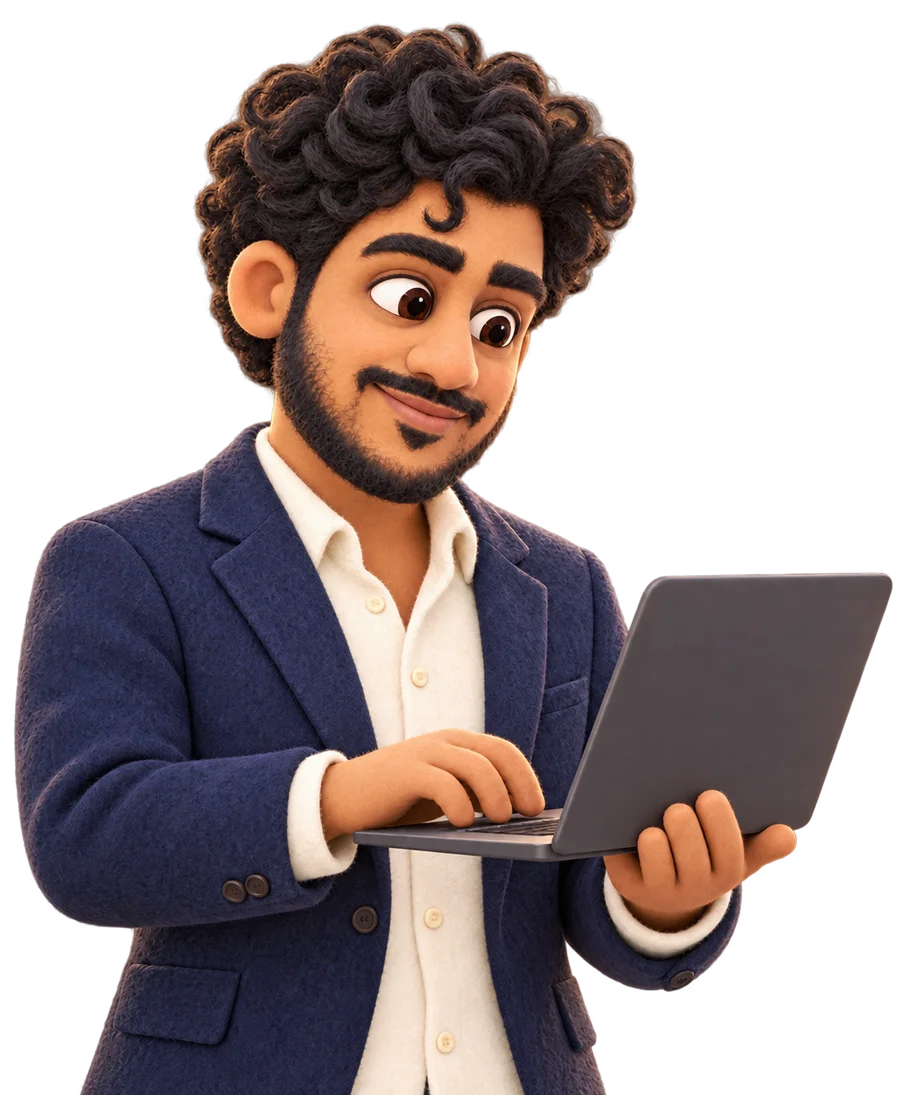
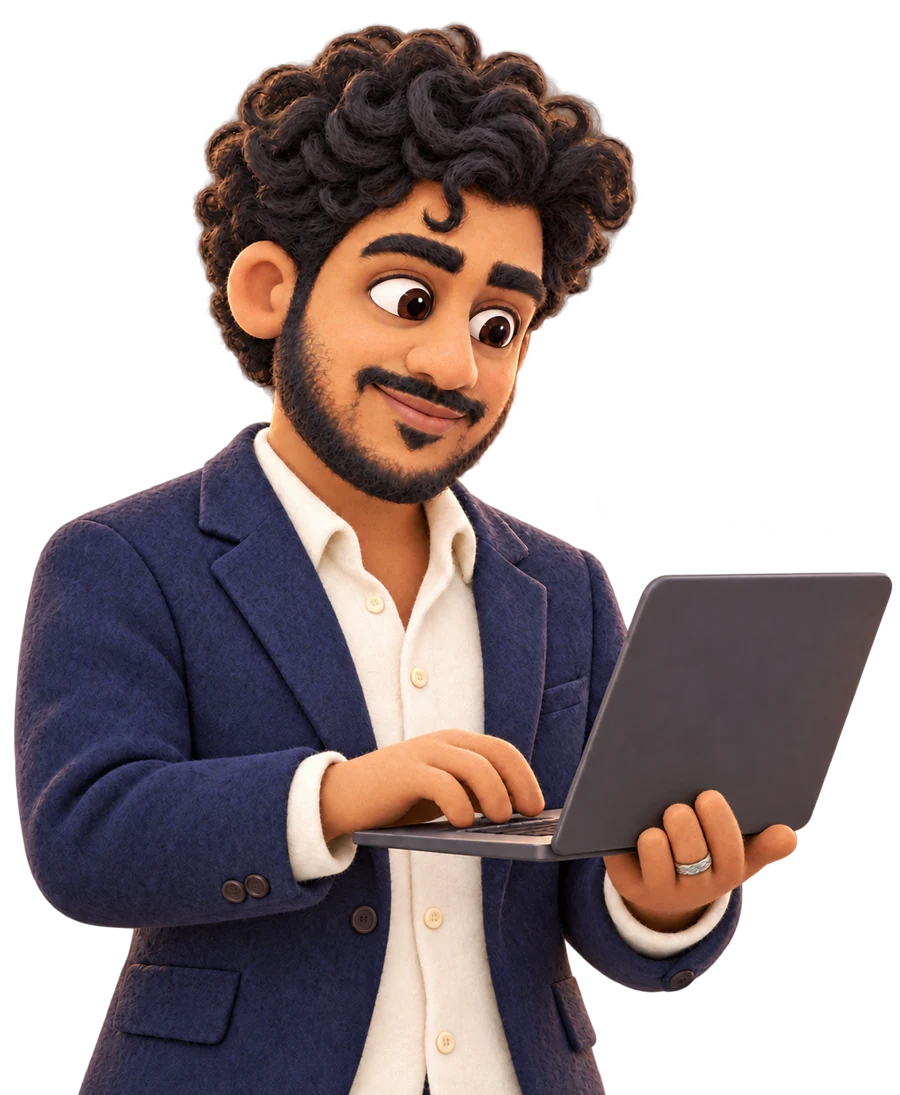
Add scroll-led evidence chapters, luminous dark theme and left ring-finger character details

diff --git a/index.html b/index.html
@@ -1,7 +1,7 @@
-<!doctype html><html lang="en"><head><link rel="preload" href="assets/BebasNeue-Regular.ttf" as="font" type="font/ttf" crossorigin><meta charset="utf-8"><meta name="viewport" content="width=device-width,initial-scale=1"><meta name="description" content="Shaik Arham Saquib — Dublin-based Business Intelligence, Data Analytics and Application Support professional. Explore working projects, enterprise experience and MSc research."><link rel="canonical" href="https://arham-bi.vercel.app/"><meta property="og:url" content="https://arham-bi.vercel.app/"><meta name="twitter:card" content="summary_large_image"><meta property="og:title" content="Arham Saquib | BI & Data Analytics · Dublin"><meta property="og:description" content="A Dublin journey through data, enterprise systems and explainable AI. A portfolio by Shaik Arham Saquib."><meta property="og:image" content="https://arham-bi.vercel.app/assets/arham-speaking.webp"><meta name="theme-color" content="#080e0d"><meta name="color-scheme" content="dark light"><meta name="robots" content="index,follow"><title>Arham Saquib | Business Intelligence & Data Analytics · Dublin</title><link rel="icon" href="favicon.ico?v=series4" sizes="any"><link rel="icon" href="assets/favicon.png?v=series4" type="image/png" sizes="48x48"><link rel="stylesheet" href="style.css?v=future4"><script defer src="portfolio-data.js?v=series2"></script><script defer src="app.js?v=future4"></script><noscript><style>#main-nav{display:flex!important;position:static!important;flex-wrap:wrap;flex-direction:row!important}.nav{position:relative;flex-wrap:wrap}.menu-toggle{display:none!important}.studio-hero{padding-top:40px}</style></noscript><link rel="preconnect" href="https://fonts.googleapis.com"><link rel="preconnect" href="https://fonts.gstatic.com" crossorigin><link href="https://fonts.googleapis.com/css2?family=Anton&family=Inter:wght@400;500;600;700&display=swap" rel="stylesheet"><link rel="stylesheet" href="carousel-build/arham-portfolio.css"><script type="module" src="carousel-build/carousel.js"></script><link href="https://db.onlinewebfonts.com/c/5ac3fe7c6abd2f62067f266d89671492?family=HelveticaNowDisplay-Medium" rel="stylesheet"><link href="https://db.onlinewebfonts.com/c/1aa3377e489837a26d019bba501e779d?family=HelveticaNowDisplayW01-Rg" rel="stylesheet"></head>
+<!doctype html><html lang="en"><head><link rel="preload" href="assets/BebasNeue-Regular.ttf" as="font" type="font/ttf" crossorigin><meta charset="utf-8"><meta name="viewport" content="width=device-width,initial-scale=1"><meta name="description" content="Shaik Arham Saquib — Dublin-based Business Intelligence, Data Analytics and Application Support professional. Explore working projects, enterprise experience and MSc research."><link rel="canonical" href="https://arham-bi.vercel.app/"><meta property="og:url" content="https://arham-bi.vercel.app/"><meta name="twitter:card" content="summary_large_image"><meta property="og:title" content="Arham Saquib | BI & Data Analytics · Dublin"><meta property="og:description" content="A Dublin journey through data, enterprise systems and explainable AI. A portfolio by Shaik Arham Saquib."><meta property="og:image" content="https://arham-bi.vercel.app/assets/arham-speaking.webp"><meta name="theme-color" content="#080e0d"><meta name="color-scheme" content="dark light"><meta name="robots" content="index,follow"><title>Arham Saquib | Business Intelligence & Data Analytics · Dublin</title><link rel="icon" href="favicon.ico?v=series4" sizes="any"><link rel="icon" href="assets/favicon.png?v=series4" type="image/png" sizes="48x48"><link rel="stylesheet" href="style.css?v=cinema1"><script defer src="portfolio-data.js?v=series2"></script><script defer src="app.js?v=cinema1"></script><noscript><style>#main-nav{display:flex!important;position:static!important;flex-wrap:wrap;flex-direction:row!important}.nav{position:relative;flex-wrap:wrap}.menu-toggle{display:none!important}.studio-hero{padding-top:40px}</style></noscript><link rel="preconnect" href="https://fonts.googleapis.com"><link rel="preconnect" href="https://fonts.gstatic.com" crossorigin><link href="https://fonts.googleapis.com/css2?family=Anton&family=Inter:wght@400;500;600;700&display=swap" rel="stylesheet"><link rel="stylesheet" href="carousel-build/arham-portfolio.css"><script type="module" src="carousel-build/carousel.js"></script><link href="https://db.onlinewebfonts.com/c/5ac3fe7c6abd2f62067f266d89671492?family=HelveticaNowDisplay-Medium" rel="stylesheet"><link href="https://db.onlinewebfonts.com/c/1aa3377e489837a26d019bba501e779d?family=HelveticaNowDisplayW01-Rg" rel="stylesheet"></head>
 <body class="light" data-city-scene="skyline"><div class="reading-progress" aria-hidden="true"></div><a class="skip" href="#main">Skip to portfolio</a>
 <header class="nav"><a class="wordmark" href="#top" aria-label="Arham home">ARHAM<span>DUBLIN / DATA & BI</span></a><button id="menu-toggle" class="menu-toggle" type="button" aria-expanded="false" aria-controls="main-nav">Menu <span aria-hidden="true">＋</span></button><nav id="main-nav" aria-label="Main navigation"><a href="#projects">Projects</a><a href="#journey">Experience</a><a href="#dcu">DCU research</a><a href="#skills">Skills</a><a href="#recognition">Recognition</a><a href="#contact">Contact</a></nav><div class="nav-actions"><a href="assets/Shaik_Arham_Saquib.pdf" download class="cv-nav">Download CV ↓</a><button id="theme-toggle" aria-label="Switch to light theme" type="button">☀</button><button id="motion-toggle" type="button" aria-pressed="true">Motion on</button></div></header><main id="main"><section class="immersive-hero" id="top" aria-label="Portfolio introduction"><div id="hero-carousel" class="hero-carousel-mount"><noscript><h1>Arham Saquib · Business Intelligence & Data Analytics</h1><p>Explore my projects, experience and DCU research below.</p></noscript></div><div class="proof-ribbon"><a href="#journey"><strong>2.5+</strong><span>years of enterprise experience<br>Hitachi Digital Services</span></a><a href="#dcu"><strong>MSc</strong><span>Computing · Data Analytics<br>Dublin City University</span></a><a href="#recognition"><strong>✦</strong><span>Hitachi Pinnacle Award<br>View the certificate ↗</span></a></div></section><div class="studio-strip" aria-label="Portfolio focus"><span>ENTERPRISE REPORTING</span><i>✦</i><span>DUBLIN CITY UNIVERSITY</span><i>✦</i><span>EXPLAINABLE AI</span><i>✦</i><span>RELIABLE DATA</span><i>✦</i><span>APPLICATION SUPPORT</span></div>
-<section class="quick-row section-pad" aria-label="Quick portfolio routes"><div class="row-heading"><h2>Start with the evidence</h2><span>Projects, experience and a downloadable CV</span></div><div class="quick-grid"><a href="#projects"><span class="quick-number">01</span><div><small>THE ORIGINALS</small><strong>Five projects. Five different problems.</strong><span>Explore working demos →</span></div></a><a href="#journey"><span class="quick-number">02</span><div><small>THE JOURNEY</small><strong>Enterprise systems to explainable AI.</strong><span>Follow the timeline →</span></div></a><a href="assets/Shaik_Arham_Saquib.pdf" download><span class="quick-number">03</span><div><small>THE SHORT VERSION</small><strong>The CV, ready when you are.</strong><span>Download PDF ↓</span></div></a></div></section>
+<section class="evidence-cinema" aria-label="From enterprise experience to independent work"><div class="cinema-stage"><div class="cinema-heading"><p class="eyebrow">A CLOSER LOOK / SCROLL TO EXPLORE</p><h2>From complexity.<br><span>To clarity.</span></h2></div><div class="cinema-scenes"><article class="cinema-scene cinema-current"><div class="cinema-caption"><small>01 / ENTERPRISE FOUNDATION</small><h3>Find the signal.</h3><p>2.5+ years at Hitachi Digital Services, investigating data issues and supporting enterprise reporting.</p><a href="#journey">Explore my experience ↗</a></div><img src="assets/arham-build.webp" alt="Arham’s illustrated character working on a laptop" width="900" height="1095" loading="lazy"></article><article class="cinema-scene"><div class="cinema-caption"><small>02 / DUBLIN CITY UNIVERSITY</small><h3>Explain the why.</h3><p>Co-authored MSc research connecting XGBoost forecasts, SHAP explanations and residential energy scheduling.</p><a href="#dcu">Explore the research ↗</a></div><img class="cinema-photo" src="assets/arham-dcu-campus.jpeg" alt="Arham beside the DCU letters on campus" width="1536" height="645" loading="lazy"></article><article class="cinema-scene"><div class="cinema-caption"><small>03 / INDEPENDENT PROJECTS</small><h3>Make it useful.</h3><p>Working demonstrations of incident investigation, customer analysis, workforce reporting and data controls.</p><a href="#projects">Open the projects ↗</a></div><img class="cinema-screen" src="assets/opsresolve-dashboard.png" alt="OpsResolve AI incident analytics demonstration dashboard using fictional data" loading="lazy"></article></div><div class="cinema-track" aria-hidden="true"><span></span><span></span><span></span></div><span class="cinema-scroll" aria-hidden="true">KEEP SCROLLING ↓</span></div></section><section class="quick-row section-pad" aria-label="Quick portfolio routes"><div class="row-heading"><h2>Start with the evidence</h2><span>Projects, experience and a downloadable CV</span></div><div class="quick-grid"><a href="#projects"><span class="quick-number">01</span><div><small>THE ORIGINALS</small><strong>Five projects. Five different problems.</strong><span>Explore working demos →</span></div></a><a href="#journey"><span class="quick-number">02</span><div><small>THE JOURNEY</small><strong>Enterprise systems to explainable AI.</strong><span>Follow the timeline →</span></div></a><a href="assets/Shaik_Arham_Saquib.pdf" download><span class="quick-number">03</span><div><small>THE SHORT VERSION</small><strong>The CV, ready when you are.</strong><span>Download PDF ↓</span></div></a></div></section>
 <div id="story-sections"><section class="section-pad about-section" id="about" data-city-scene="bridges"><div class="about-label"><p class="eyebrow">EPISODE 01 / THE PROFILE</p><span class="outline-number">01</span></div><div class="about-copy"><p class="eyebrow">HYDERABAD → DUBLIN / ORIGIN & DIRECTION</p><h2>The story behind<br><em>the work.</em></h2><p>My work sits where enterprise systems, reporting and practical problem-solving meet. At Hitachi Digital Services, I investigated data issues, supported Oracle-based environments and worked with teams on reliable reporting and controlled system changes.</p><p>At Dublin City University, I extended that foundation into machine learning and explainable AI. Now I’m looking for Data Analyst, BI, Reporting Analyst and Application Support opportunities in Dublin and across Ireland.</p><div class="profile-facts"><div><strong>2.5+</strong><span>years at Hitachi</span></div><div><strong>MSc</strong><span>Computing · Data Analytics</span></div><div><strong>Dublin</strong><span>Ireland</span></div></div></div></section><section class="section-pad journey-section" id="journey" data-city-scene="bridges"><div class="river-timeline" aria-hidden="true"><svg viewBox="0 0 100 700" preserveAspectRatio="none"><path class="river-track" d="M50 0C-25 130 125 200 50 330S-15 510 50 700"/><path class="river-progress" pathLength="1" d="M50 0C-25 130 125 200 50 330S-15 510 50 700"/></svg></div><div class="section-heading"><div><p class="eyebrow">EPISODE 02 / EXPERIENCE</p><h2>Enterprise roots.<br>A Dublin future.</h2></div><span class="small-note">Experience & education</span></div><div class="season-tabs" role="group" aria-label="Choose a career season"><button type="button" data-season="enterprise" aria-pressed="true">Season 01 · Enterprise</button><button type="button" data-season="research" aria-pressed="false">Season 02 · Research</button><button type="button" data-season="building" aria-pressed="false">Season 03 · Building</button></div><div id="season-content" class="season-content" aria-live="polite"></div><noscript><p>Hitachi Digital Services · February 2023–July 2025. MSc Computing (Data Analytics), DCU · September 2025–August 2026. B.Tech CSE, CMRIT Hyderabad · 2019–2023.</p></noscript></section><section class="section-pad dcu-section" id="dcu" data-city-scene="campus"><div class="dcu-art"><img src="assets/arham-dcu-campus.jpeg" width="1536" height="645" alt="Arham standing beside the DCU letters on campus" loading="lazy"><span>03 / DUBLIN CITY UNIVERSITY</span></div><div class="dcu-copy"><p class="eyebrow">EPISODE 03 / DUBLIN CITY UNIVERSITY</p><h2>Understanding the prediction.<br><em>Explaining the decision.</em></h2><p>At Dublin City University, my MSc connected data analytics with machine learning and explainable AI. My co-authored practicum explored residential energy-load scheduling using XGBoost, SHAP and an LLM scheduling module.</p><div class="dcu-facts"><span>MSc Computing<br><b>Data Analytics</b></span><span>Sep 2025–Aug 2026<br><b>Co-authored practicum</b></span></div><div class="dcu-actions"><button class="button primary" data-open="energy" type="button">Explore the research ↗</button><a class="button glass" href="assets/Practicum_Paper.pdf" target="_blank" rel="noreferrer">Read the paper ↗</a></div><div class="research-process" aria-label="Research method"><span>01 / FORECAST<b>XGBoost</b>Estimate consumption.</span><span>02 / EXPLAIN<b>SHAP</b>Interpret model outputs.</span><span>03 / SCHEDULE<b>LLM module</b>Evaluate cost and constraints.</span></div><small>Co-authored with Bryan Masterson · Supervised by Dr. Muhammad Salman Pathan. Findings apply to the evaluated data and experimental setup.</small><p class="dcu-photo-credit">A personal chapter at Dublin City University · Photograph supplied by Arham.</p></div></section><section class="section-pad project-section" id="projects" data-city-scene="docklands"><div class="section-heading"><div><p class="eyebrow">SELECTED WORK / INDEPENDENT DEMOS & RESEARCH</p><h2>WORK, WITH DEPTH.</h2></div><span class="collection-count" id="project-count" role="status" aria-live="polite">5 projects</span></div><p class="section-sub">Select a volume to explore the problem, method and evidence. Every result has a source and a stated limit.</p><div class="project-filters" role="group" aria-label="Filter projects"><button type="button" data-filter="all" aria-pressed="true">All work <span>5</span></button><button type="button" data-filter="support" aria-pressed="false">Application support <span>1</span></button><button type="button" data-filter="research" aria-pressed="false">Research <span>1</span></button><button type="button" data-filter="analytics" aria-pressed="false">Analytics & reporting <span>3</span></button></div><div class="project-shelf" id="project-shelf" aria-label="Interactive project shelf"></div><div class="shelf-navigation"><button type="button" id="shelf-prev" aria-label="Previous project">←</button><span id="shelf-caption" role="status">Choose a project</span><button type="button" id="shelf-next" aria-label="Next project">→</button></div><div class="collection-grid" id="project-rail"></div><noscript><p>Project previews need JavaScript. You can still open the work directly:</p><p><a href="https://shaikarham.github.io/opsresolve-ai/">OpsResolve AI demo</a> · <a href="assets/Practicum_Paper.pdf">DCU research paper</a> · <a href="https://shaikarham.github.io/customer-segmentation-rfm/site/">Customer Lens demo</a> · <a href="https://shaikarham.github.io/hr-workforce-analytics/site/">Workforce Atlas demo</a> · <a href="https://shaikarham.github.io/bi-reporting-automation/site/">Report Relay demo</a></p></noscript><p class="project-note">Independent demonstrations use fictional data. Customer Lens, Workforce Atlas and Report Relay were built in October 2026. Demo figures are sample outputs, not client results. DCU research is co-authored.</p></section><section class="section-pad" id="skills" data-city-scene="docklands"><div class="section-heading"><div><p class="eyebrow">EPISODE 05 / THE TOOLKIT</p><h2>TOOLS OF THE TRADE.</h2></div></div><div class="skills-grid"><article><span>01 / QUERY & INVESTIGATE</span><h3>Data & databases</h3><p>SQL · PL/SQL · Python · Data validation · Reconciliation</p><small>See the RFM calculations in Customer Lens and SQL controls in Report Relay.</small><button data-open="relay" type="button">Explore Report Relay ↗</button></article><article><span>02 / REPORT & SUPPORT</span><h3>Enterprise intelligence</h3><p>Oracle ERP · OBIA / OBIEE · ODI · Power BI · ETL monitoring</p><small>Enterprise reporting and application-support experience at Hitachi. The portfolio dashboards use HTML and JavaScript.</small><a href="#journey">Explore my experience ↗</a></article><article><span>03 / EXPLAIN & EVALUATE</span><h3>Machine learning</h3><p>XGBoost · SHAP · Forecast evaluation · Explainable AI</p><small>Co-authored DCU research on explainable residential energy scheduling.</small><button data-open="energy" type="button">Explore the practicum ↗</button></article></div></section><section class="section-pad recognition" id="recognition" data-city-scene="skyline"><div class="section-heading"><div><p class="eyebrow">EPISODE 06 / RECOGNITION</p><h2>THE CREDITS.</h2></div></div><div class="award-feature"><button class="award-image" id="award-open" type="button" aria-label="Enlarge Hitachi Pinnacle Award certificate"><img src="assets/hitachi-pinnacle-award.webp" alt="Hitachi Pinnacle Award certificate for Shaik Arham Saquib, The Transformers, Q4 FY24" loading="lazy"></button><div><span class="award-star" aria-hidden="true">✦</span><p class="eyebrow">HITACHI / Q4 FY24</p><h3>Pinnacle Award<br><em>The Transformers</em></h3><p>Recognition for contributions to BI and data-analytics transitions, collaboration and delivery.</p><button class="text-button" type="button" id="award-details">View the certificate ↗</button></div></div><div class="education-row"><article><small>POSTGRADUATE</small><h3>MSc Computing (Data Analytics)</h3><p>Dublin City University · Sep 2025–Aug 2026</p></article><article><small>UNDERGRADUATE</small><h3>B.Tech · Computer Science Engineering</h3><p>CMR Institute of Technology, Hyderabad · 2019–2023</p></article></div><div class="certification-row"><p class="eyebrow">CONTINUED LEARNING</p><div class="certification-grid"><article><span>BUSINESS INTELLIGENCE</span><h3>IBM Cognos Analytics 12.0.0</h3><p>Cloud training · Reporting and analytics</p></article><article><span>CLOUD & AI</span><h3>Oracle Cloud Infrastructure</h3><p>2023 AI Foundations</p></article><article><span>SUPPORT OPERATIONS</span><h3>Customer & Zendesk Support</h3><p>Customer service and support operations</p></article></div></div></section></div>
 <section class="section-pad contact" id="contact" data-city-scene="bay"><div class="bay-horizon" aria-hidden="true"></div><div class="contact-layout"><div class="contact-intro"><p class="eyebrow">AVAILABLE FOR OPPORTUNITIES / DUBLIN & IRELAND</p><h2>Let’s talk.<br><em>What’s next?</em></h2><p>Open to data, business intelligence, reporting and application-support opportunities in Dublin and Ireland.</p><div class="contact-buttons"><a class="button primary" href="mailto:sarhamsaquib@gmail.com">✉ Get in touch</a><a class="button glass" href="https://www.linkedin.com/in/arhamsaquib/" target="_blank" rel="noreferrer">LinkedIn ↗</a><a class="button glass" href="assets/Shaik_Arham_Saquib.pdf" download>Download CV ↓</a></div><a class="email-link" href="mailto:sarhamsaquib@gmail.com">sarhamsaquib@gmail.com</a></div><form action="https://formsubmit.co/sarhamsaquib@gmail.com" method="POST" id="contact-form" class="contact-form" aria-labelledby="contact-form-title">
 <div class="form-honey" aria-hidden="true"><label for="contact-company-url">Leave this empty</label><input id="contact-company-url" name="_honey" tabindex="-1" autocomplete="off"></div><h3 id="contact-form-title">Start a conversation</h3><p class="form-intro">Have a role in mind or a question about my work?</p>

diff --git a/style.css b/style.css
@@ -56,3 +56,14 @@ body.light{--bg:#f8f9ff;--surface:#fff;--surface2:#edf0ff;--ink:#202943;--muted:
 .motion-off .collection-enter,.motion-off .dcu-art,.motion-off .award-feature{animation:none!important;transform:none!important}
 @media(max-width:800px){.light .dcu-art{position:relative;top:auto}.light .nav{padding-inline:22px}.light .nav nav{background:#fafbff}}
 @media(prefers-reduced-motion:reduce){.collection-enter,.dcu-art,.award-feature{animation:none!important;transform:none!important}}
+
+/* Scroll-led evidence story: natural scrolling, no scroll interception. */
+.evidence-cinema{height:290svh;position:relative;background:radial-gradient(ellipse at 73% 38%,#dce7ff,transparent 60%),linear-gradient(145deg,#fafbff,#f2efff);color:#1b284e}.cinema-stage{height:100svh;position:sticky;top:0;overflow:hidden;padding:110px 7vw 60px;isolation:isolate}.cinema-heading{position:relative;z-index:2}.cinema-heading h2{font-size:clamp(48px,6.5vw,100px);letter-spacing:-.065em;line-height:.98}.cinema-heading h2 span{background:linear-gradient(90deg,#6156d9,#168fa6);background-clip:text;-webkit-text-fill-color:transparent}.cinema-scenes{position:absolute;inset:0}.cinema-scene{position:absolute;inset:0;opacity:0;visibility:hidden;transform:translateY(35px) scale(.97);transition:opacity .65s,transform .85s cubic-bezier(.2,.7,.2,1),visibility .65s;display:grid;grid-template-columns:1fr 1.3fr;align-items:center;padding:32vh 7vw 8vh;gap:5vw}.cinema-scene.cinema-current{opacity:1;visibility:visible;transform:none}.cinema-caption{max-width:400px;z-index:2}.cinema-caption small{font-size:10px;letter-spacing:.16em;color:#665ac3}.cinema-caption h3{font-size:clamp(32px,4vw,64px);line-height:1.04;letter-spacing:-.05em;margin:18px 0}.cinema-caption p{font-size:17px;line-height:1.6;color:#53617f}.cinema-caption a{display:inline-block;font-size:13px;font-weight:700;border-bottom:1px solid currentColor;padding:8px 0}.cinema-scene>img{width:100%;height:64svh;object-fit:contain;align-self:end;filter:drop-shadow(0 25px 40px #6658b329)}.cinema-scene>.cinema-photo,.cinema-scene>.cinema-screen{height:auto;max-height:52svh;align-self:center;border-radius:20px;border:1px solid #ffffffb0;box-shadow:0 25px 70px #6e60a52b;transform:perspective(1000px) rotateY(-5deg);transition:transform 1s}.cinema-current>.cinema-photo,.cinema-current>.cinema-screen{transform:perspective(1000px) rotateY(0)}.cinema-track{position:absolute;left:7vw;bottom:35px;display:flex;gap:8px}.cinema-track span{width:55px;height:4px;background:#9995b540;border-radius:5px}.cinema-track .is-current{background:#6655da}.cinema-scroll{position:absolute;bottom:30px;right:7vw;font-size:9px;letter-spacing:.15em;color:#687398}.quick-row{margin-top:0}
+/* Luminous midnight palette, with coloured light instead of flat black. */
+body:not(.light){--bg:#182443;--surface:#243453;--surface2:#314466;--ink:#f3f6ff;--muted:#bfcee7;--line:#b8c9ff30;--red:#b7adff;background:#182443;color:var(--ink)}body:not(.light) .nav{background:#182443dd;color:#f3f6ff;border-color:#b8c9ff24}body:not(.light) .wordmark,body:not(.light) .wordmark span{color:#e3e7ff}body:not(.light) .mainframe-hero{background-color:#293d69!important;background-image:radial-gradient(ellipse at 75% 35%,#9377c488,transparent 58%),linear-gradient(125deg,#21304c,#36596a);color:#fff}body:not(.light) .mainframe-copy h1{color:#f9faff}body:not(.light) .mainframe-label,body:not(.light) .mainframe-typewriter{color:#e0eaff}body:not(.light) .mainframe-ghost{color:#becdff;opacity:.12}body:not(.light) .mainframe-shade{background:linear-gradient(90deg,#1b2a4c66,transparent)}body:not(.light) .future-orbit{background:radial-gradient(circle,#bfb4ff40,transparent 65%);border-color:#c0cfff45}body:not(.light) .mainframe-copy{background:transparent}body:not(.light) .evidence-cinema{background:radial-gradient(ellipse at 80% 35%,#7866b069,transparent 65%),linear-gradient(135deg,#203554,#314b69);color:#fff}body:not(.light) .cinema-heading h2 span{background-image:linear-gradient(90deg,#c2b1ff,#9af0de)}body:not(.light) .cinema-caption p,body:not(.light) .cinema-scroll{color:#d4e0f4}body:not(.light) .cinema-caption small{color:#d6c6ff}body:not(.light) .cinema-track .is-current{background:#b8adff}body:not(.light) #about,body:not(.light) #skills{background:radial-gradient(ellipse at 85% 20%,#5e7aa43b,transparent 65%),#1d2d4b}body:not(.light) #journey{background:linear-gradient(130deg,#233954,#314657)}body:not(.light) #dcu{background:radial-gradient(ellipse at 20% 40%,#8d78b447,transparent 65%),#293753}body:not(.light) #projects{background:linear-gradient(135deg,#233452,#33416b)}body:not(.light) #recognition{background:linear-gradient(130deg,#354560,#42405d)}body:not(.light) .contact{background:radial-gradient(ellipse at 70% 30%,#8374b95c,transparent 65%),linear-gradient(135deg,#253e61,#3c496d);color:#f3f6ff}body:not(.light) .contact-form{background:#203351d9;border-color:#bdcfff45}body:not(.light) .contact-form input,body:not(.light) .contact-form select,body:not(.light) .contact-form textarea{background:#304565;color:#fff;border-color:#bfd1ef45}body:not(.light) .contact>p:not(.eyebrow){color:#d2def1}body:not(.light) .skills-grid article,body:not(.light) .episode{background:#2b3f60;border-color:#9daee13b}body:not(.light) footer{background:#1d2d4b;color:#c0cde7}
+.motion-off .evidence-cinema{height:auto}.motion-off .cinema-stage{height:auto;position:relative}.motion-off .cinema-scenes{position:relative}.motion-off .cinema-scene{position:relative;opacity:1;visibility:visible;transform:none;padding:40px 0;min-height:65vh}.motion-off .cinema-track,.motion-off .cinema-scroll{display:none}.motion-off .cinema-scene>img{transform:none;transition:none}
+@media(max-width:700px){.evidence-cinema{height:auto}.cinema-stage{position:relative;height:auto;padding:70px 24px 20px}.cinema-heading h2{font-size:54px}.cinema-scenes{position:relative}.cinema-scene{position:relative;opacity:1;visibility:visible;transform:none;display:flex;flex-direction:column-reverse;padding:45px 0;gap:24px;transition:none}.cinema-scene>img{height:340px;align-self:center}.cinema-scene>.cinema-photo,.cinema-scene>.cinema-screen{height:auto;max-height:none;transform:none;border-radius:14px}.cinema-caption{max-width:none}.cinema-caption h3{font-size:40px}.cinema-caption p{font-size:16px}.cinema-track,.cinema-scroll{display:none}body:not(.light) .mainframe-copy{background:linear-gradient(0deg,#293d69 15%,#293d69ef 65%,transparent)}}
+@media(prefers-reduced-motion:reduce){.evidence-cinema{height:auto}.cinema-stage{height:auto;position:relative}.cinema-scenes{position:relative}.cinema-scene{position:relative;opacity:1;visibility:visible;transform:none;transition:none;padding:40px 0;min-height:65vh}.cinema-scene>img{transform:none;transition:none}.cinema-track,.cinema-scroll{display:none}}
+.cinema-heading h2{letter-spacing:-.045em;word-spacing:.04em}.cinema-caption h3{letter-spacing:-.035em;word-spacing:.03em}
+.cinema-heading h2,.cinema-caption h3{font-family:Inter,Arial,sans-serif;letter-spacing:-.045em;word-spacing:normal;font-weight:600}
+body .mainframe-copy h1{font-family:Inter,Arial,sans-serif;letter-spacing:-.045em;word-spacing:normal}body .mainframe-typewriter,body .mainframe-label{font-family:Inter,Arial,sans-serif}

diff --git a/app.js b/app.js
@@ -33,13 +33,13 @@
  $('intro-prev').addEventListener('click',()=>{if(introIndex>0){introIndex--;introSlide();}});$('intro-next').addEventListener('click',()=>{if(introIndex<2){introIndex++;introSlide();}});
  $('intro-dialog').addEventListener('keydown',e=>{if(e.key==='ArrowRight'&&introIndex<2){introIndex++;introSlide();}if(e.key==='ArrowLeft'&&introIndex>0){introIndex--;introSlide();}});
  $('award-open').addEventListener('click',()=>$('image-dialog').showModal());$('award-details').addEventListener('click',()=>$('image-dialog').showModal());
- function themeIcon(){const light=document.body.classList.contains('light');$('theme-toggle').textContent=light?'☾':'☀';$('theme-toggle').setAttribute('aria-label',light?'Switch to dark theme':'Switch to light theme');document.querySelector('meta[name="theme-color"]').content=light?'#f4f1e9':'#080e0d';}
+ function themeIcon(){const light=document.body.classList.contains('light');$('theme-toggle').textContent=light?'☾':'☀';$('theme-toggle').setAttribute('aria-label',light?'Switch to dark theme':'Switch to light theme');document.querySelector('meta[name="theme-color"]').content=light?'#f4f1e9':'#182443';}
  document.body.classList.toggle('light',read('arham-series-theme')!=='dark');themeIcon();$('theme-toggle').addEventListener('click',()=>{document.body.classList.toggle('light');save('arham-series-theme',document.body.classList.contains('light')?'light':'dark');themeIcon();});
  let userOff=read('arham-city-motion')==='off';function motion(){const off=reduce.matches||userOff;document.body.classList.toggle('motion-off',off);$('motion-toggle').textContent=reduce.matches?'Motion reduced':off?'Motion off':'Motion on';$('motion-toggle').setAttribute('aria-pressed',String(!off));$('motion-toggle').setAttribute('aria-label',off?'Enable optional animation':'Disable optional animation');$('motion-toggle').disabled=reduce.matches;document.documentElement.style.scrollBehavior=off?'auto':'smooth';}
- $('motion-toggle').addEventListener('click',()=>{userOff=!userOff;save('arham-city-motion',userOff?'off':'on');motion();});reduce.addEventListener('change',motion);motion();
+ $('motion-toggle').addEventListener('click',()=>{userOff=!userOff;save('arham-city-motion',userOff?'off':'on');motion();queue();});reduce.addEventListener('change',motion);motion();
  const menu=$('menu-toggle'),nav=$('main-nav');function closeMenu(){menu.setAttribute('aria-expanded','false');nav.classList.remove('menu-open');}
  menu.addEventListener('click',()=>{const open=menu.getAttribute('aria-expanded')!=='true';menu.setAttribute('aria-expanded',String(open));nav.classList.toggle('menu-open',open);});nav.addEventListener('click',e=>{if(e.target.closest('a'))closeMenu();});document.addEventListener('keydown',e=>{if(e.key==='Escape'&&menu.getAttribute('aria-expanded')==='true'){closeMenu();menu.focus();}});document.addEventListener('click',e=>{if(!e.target.closest('.nav'))closeMenu();});matchMedia('(min-width: 901px)').addEventListener('change',closeMenu);
- let pending=false;function frame(){pending=false;const max=Math.max(1,document.documentElement.scrollHeight-innerHeight);document.documentElement.style.setProperty('--reading-progress',String(scrollY/max));const hero=document.querySelector('.mainframe-hero');if(hero){const progress=Math.max(0,Math.min(1,scrollY/(hero.offsetHeight||1)));hero.style.setProperty('--hero-scroll',String(progress));}const sections=[...document.querySelectorAll('main section[id]')];let active='top';sections.forEach(s=>{if(s.getBoundingClientRect().top<=150)active=s.id;});nav.querySelectorAll('a').forEach(a=>{if(a.hash==='#'+active)a.setAttribute('aria-current','location');else a.removeAttribute('aria-current');});}
+ let pending=false;function frame(){pending=false;const max=Math.max(1,document.documentElement.scrollHeight-innerHeight);document.documentElement.style.setProperty('--reading-progress',String(scrollY/max));const hero=document.querySelector('.mainframe-hero');if(hero){const progress=Math.max(0,Math.min(1,scrollY/(hero.offsetHeight||1)));hero.style.setProperty('--hero-scroll',String(progress));}const cinema=document.querySelector('.evidence-cinema');if(cinema){const bounds=cinema.getBoundingClientRect();const progress=Math.max(0,Math.min(.999,-bounds.top/Math.max(1,bounds.height-innerHeight)));const step=Math.min(2,Math.floor(progress*3));cinema.style.setProperty('--cinema-progress',String(progress));cinema.querySelectorAll('.cinema-scene').forEach((scene,i)=>{const current=i===step;scene.classList.toggle('cinema-current',current);scene.inert=!current&&!document.body.classList.contains('motion-off')&&innerWidth>700;});cinema.querySelectorAll('.cinema-track span').forEach((dot,i)=>dot.classList.toggle('is-current',i===step));}const sections=[...document.querySelectorAll('main section[id]')];let active='top';sections.forEach(s=>{if(s.getBoundingClientRect().top<=150)active=s.id;});nav.querySelectorAll('a').forEach(a=>{if(a.hash==='#'+active)a.setAttribute('aria-current','location');else a.removeAttribute('aria-current');});}
  function queue(){if(!pending){pending=true;requestAnimationFrame(frame);}}addEventListener('scroll',queue,{passive:true});addEventListener('resize',queue,{passive:true});
  // Content is visible before observation and never waits on an animation to be usable.
  if('IntersectionObserver' in window){const io=new IntersectionObserver(entries=>entries.forEach(e=>{if(e.isIntersecting){if(!reduced())e.target.classList.add('collection-enter');io.unobserve(e.target);}}),{threshold:.05});document.querySelectorAll('#story-sections>section').forEach(s=>io.observe(s));}

diff --git a/vite.config.ts b/vite.config.ts
@@ -1,2 +1,2 @@
 import { defineConfig } from 'vite';
-export default defineConfig({define:{'process.env.NODE_ENV':JSON.stringify('production')},build:{minify:true,outDir:'carousel-build',emptyOutDir:true,lib:{entry:'src/main.tsx',formats:['es'],fileName:()=> 'carousel.js'},cssCodeSplit:false}});
+export default defineConfig({server:{allowedHosts:["terminal.local"]},define:{'process.env.NODE_ENV':JSON.stringify('production')},build:{minify:true,outDir:'carousel-build',emptyOutDir:true,lib:{entry:'src/main.tsx',formats:['es'],fileName:()=> 'carousel.js'},cssCodeSplit:false}});
